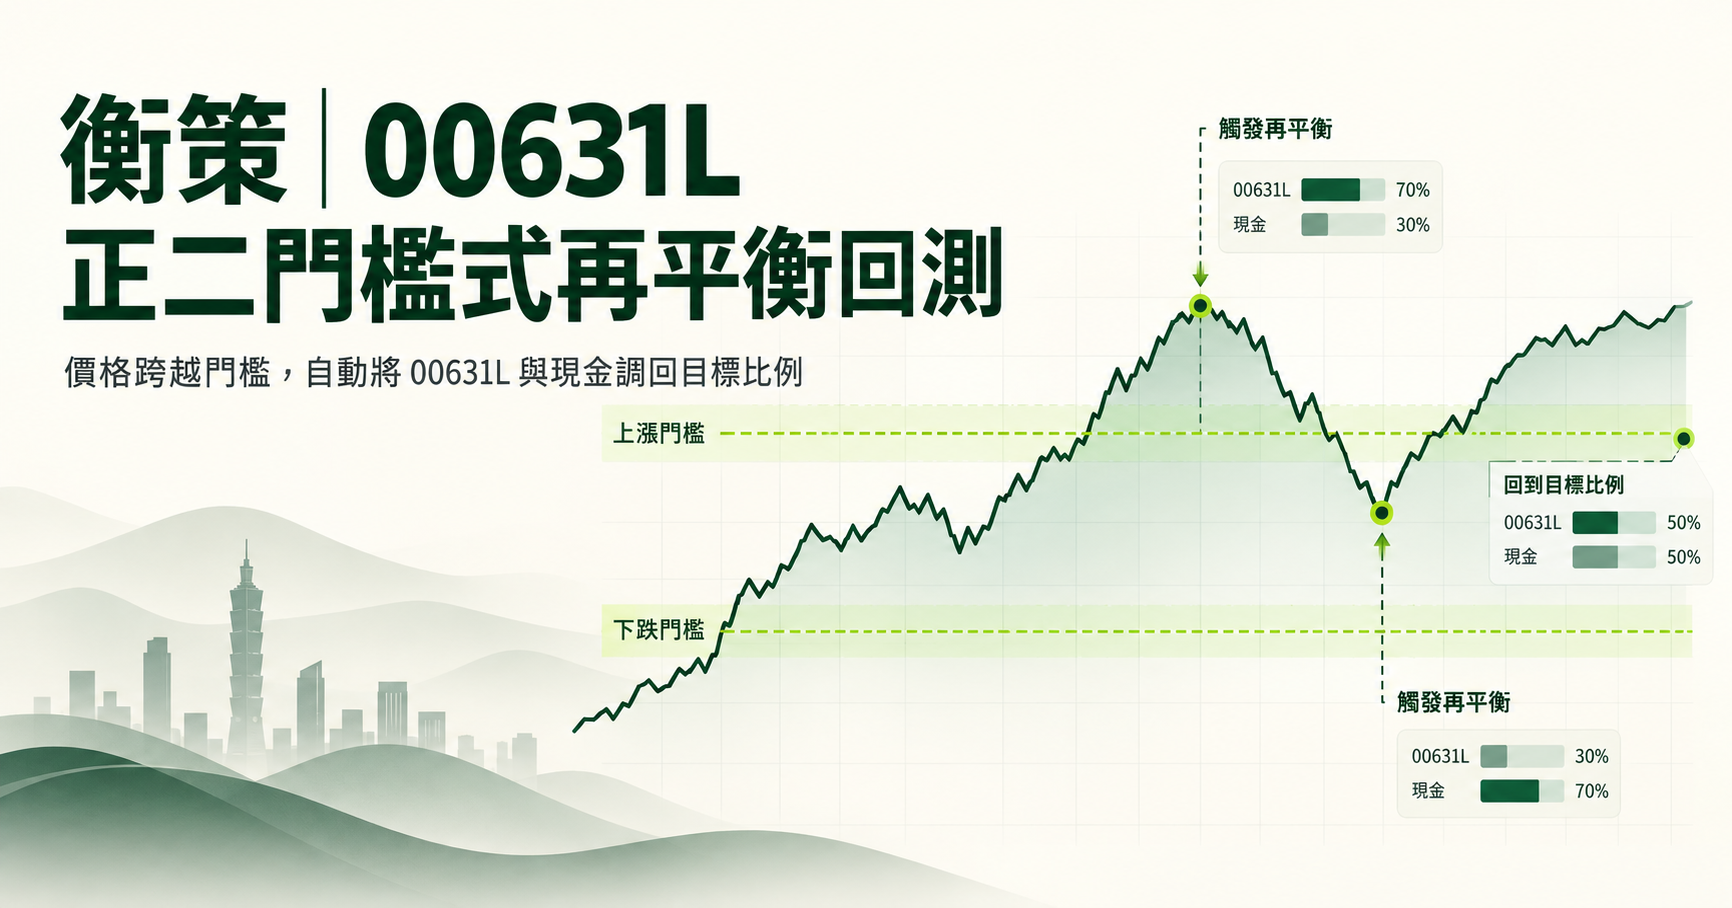
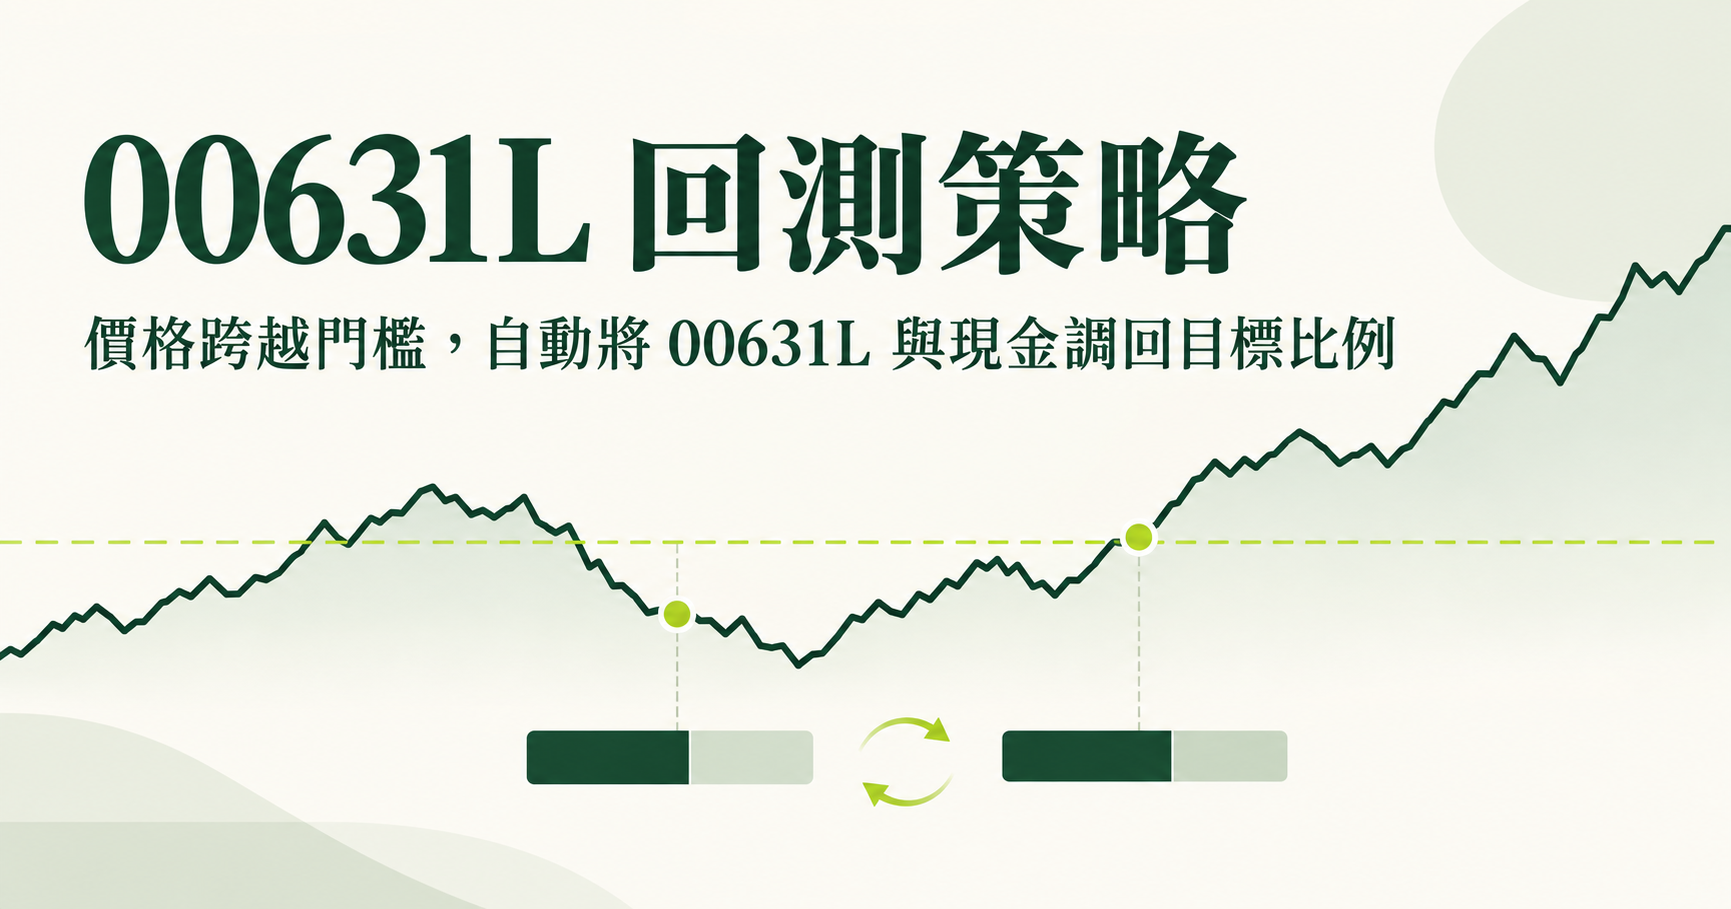
Rename site to 00631L backtest strategy

diff --git a/app/page.tsx b/app/page.tsx
@@ -351,7 +351,7 @@ export default function Home() {
   return (
     <main>
       <header className="topbar">
-        <a className="brand" href="#top" aria-label="衡策首頁"><span className="brand-mark">衡</span><span>衡策</span></a>
+        <a className="brand" href="#top" aria-label="00631L 回測策略首頁"><span className="brand-mark">回</span><span>00631L 回測策略</span></a>
         <nav aria-label="頁面導覽"><a href="#settings">策略設定</a><a href="#results">回測結果</a><a href="#method">計算說明</a></nav>
         <span className="status-pill"><i />本機運算，不上傳資料</span>
       </header>
@@ -360,7 +360,7 @@ export default function Home() {
         <section className="hero">
           <div>
             <p className="eyebrow">00631L × 現金</p>
-            <h1>正二門檻式<br /><em>再平衡回測</em></h1>
+            <h1>00631L<br /><em>回測策略</em></h1>
             <p className="hero-copy">當價格跨越設定門檻，自動將 00631L 與現金調回目標比例。用歷史資料快速檢視報酬、回撤與每次交易。</p>
           </div>
           <div className="hero-note"><span>規則</span><strong>漲到上門檻</strong><b>賣出正二</b><hr /><strong>跌到下門檻</strong><b>買進正二</b></div>
@@ -452,7 +452,7 @@ export default function Home() {
 
         <section className="method" id="method"><div><span>03</span><h2>計算方式</h2></div><ol><li><b>起始建倉</b><p>依目標比例買入 00631L，其餘保留現金。</p></li><li><b>逐日檢查</b><p>依開盤、最高、最低、收盤順序，比對上次觸發價。</p></li><li><b>觸發再平衡</b><p>跨越門檻就買賣至目標比例，並重設參考價。</p></li></ol></section>
       </div>
-      <footer><span>衡策 Threshold Lab</span><p>所有計算皆在瀏覽器本機完成・歷史績效不代表未來報酬</p></footer>
+      <footer><span>00631L 回測策略</span><p>所有計算皆在瀏覽器本機完成・歷史績效不代表未來報酬</p></footer>
     </main>
   );
 }

diff --git a/app/layout.tsx b/app/layout.tsx
@@ -3,17 +3,17 @@ import './globals.css';
 
 export const metadata: Metadata = {
   metadataBase: new URL('https://hengce-00631l-threshold.juntin.chatgpt.site'),
-  title: '衡策｜00631L 正二門檻式再平衡回測',
+  title: '00631L 回測策略',
   description: '載入 00631L 歷史價格，以自訂價格門檻、資產比例與交易成本進行再平衡回測。',
   openGraph: {
-    title: '衡策｜00631L 正二門檻式再平衡回測',
+    title: '00631L 回測策略',
     description: '價格跨越門檻，自動將 00631L 與現金調回目標比例。',
     type: 'website',
-    images: [{ url: '/og.png', width: 1732, height: 908, alt: '衡策 00631L 正二門檻式再平衡回測' }],
+    images: [{ url: '/og.png', width: 1731, height: 909, alt: '00631L 回測策略' }],
   },
   twitter: {
     card: 'summary_large_image',
-    title: '衡策｜00631L 正二門檻式再平衡回測',
+    title: '00631L 回測策略',
     description: '價格跨越門檻，自動將 00631L 與現金調回目標比例。',
     images: ['/og.png'],
   },
